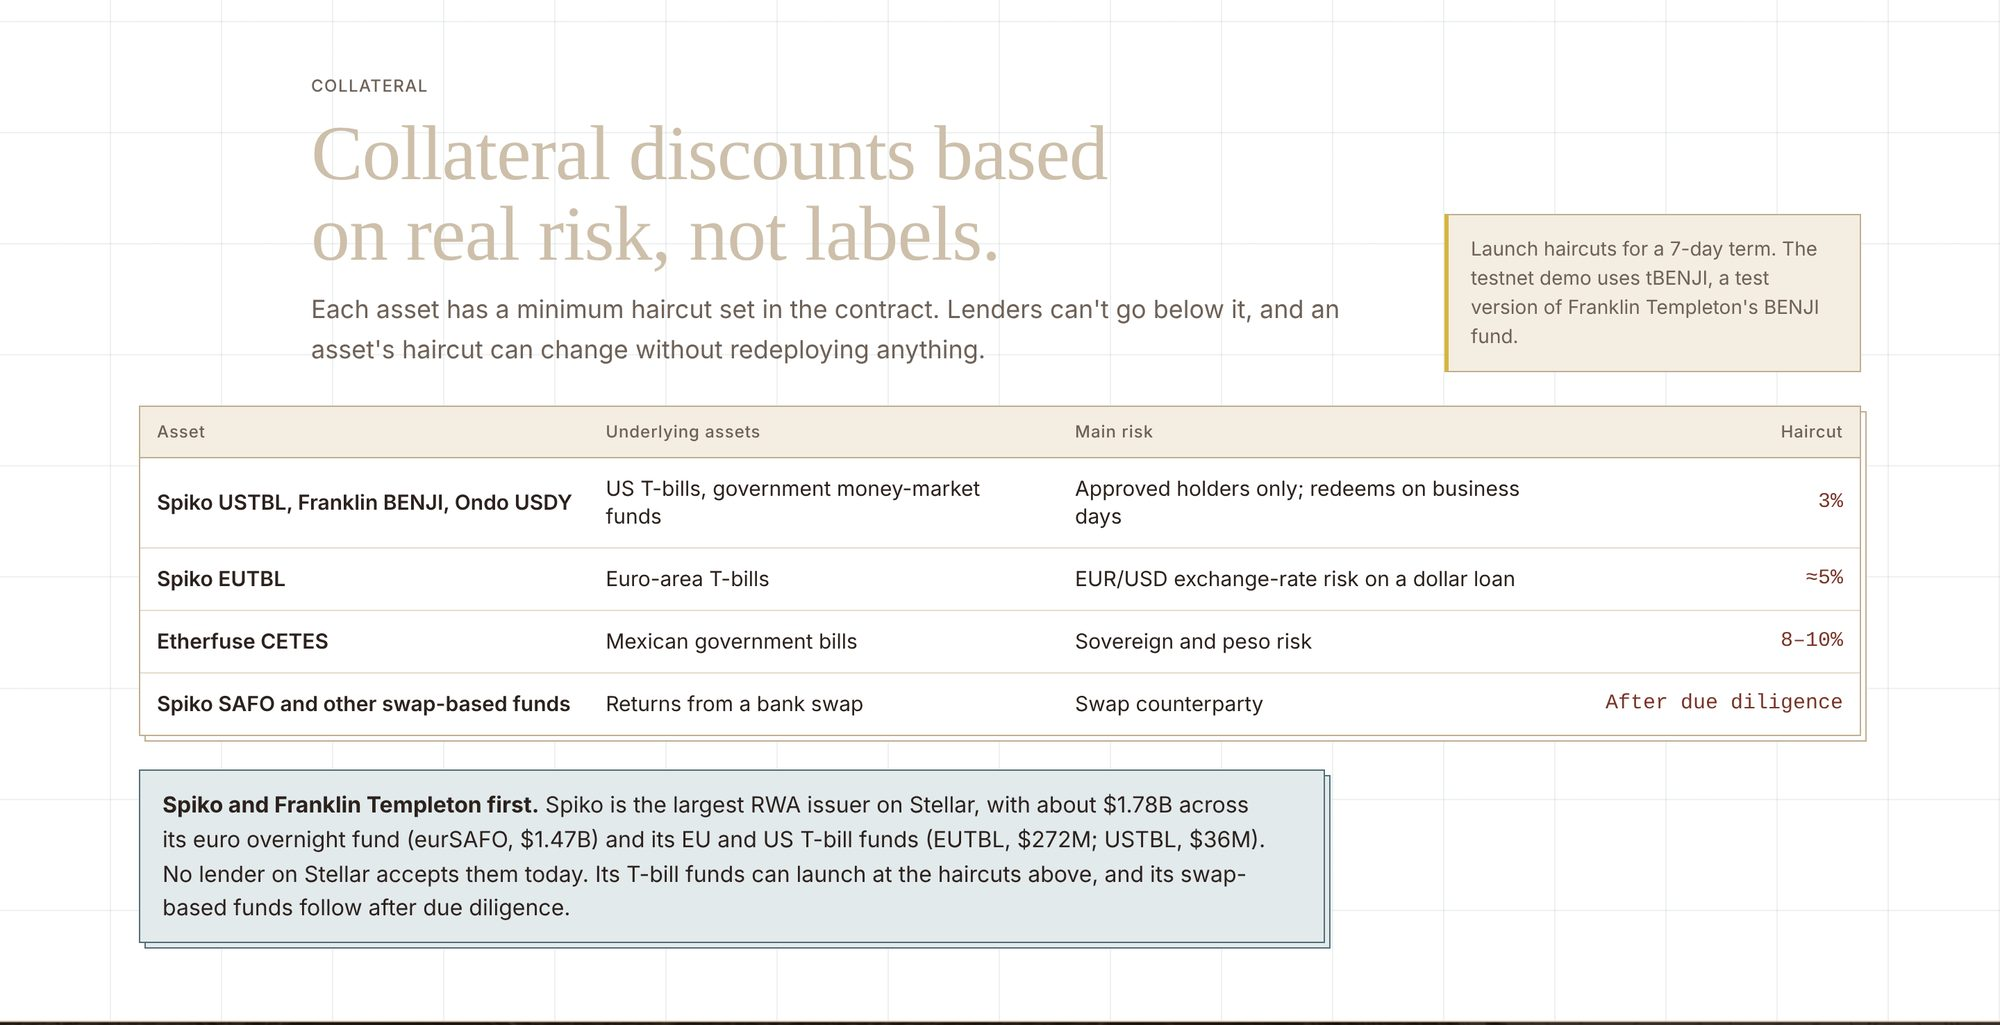
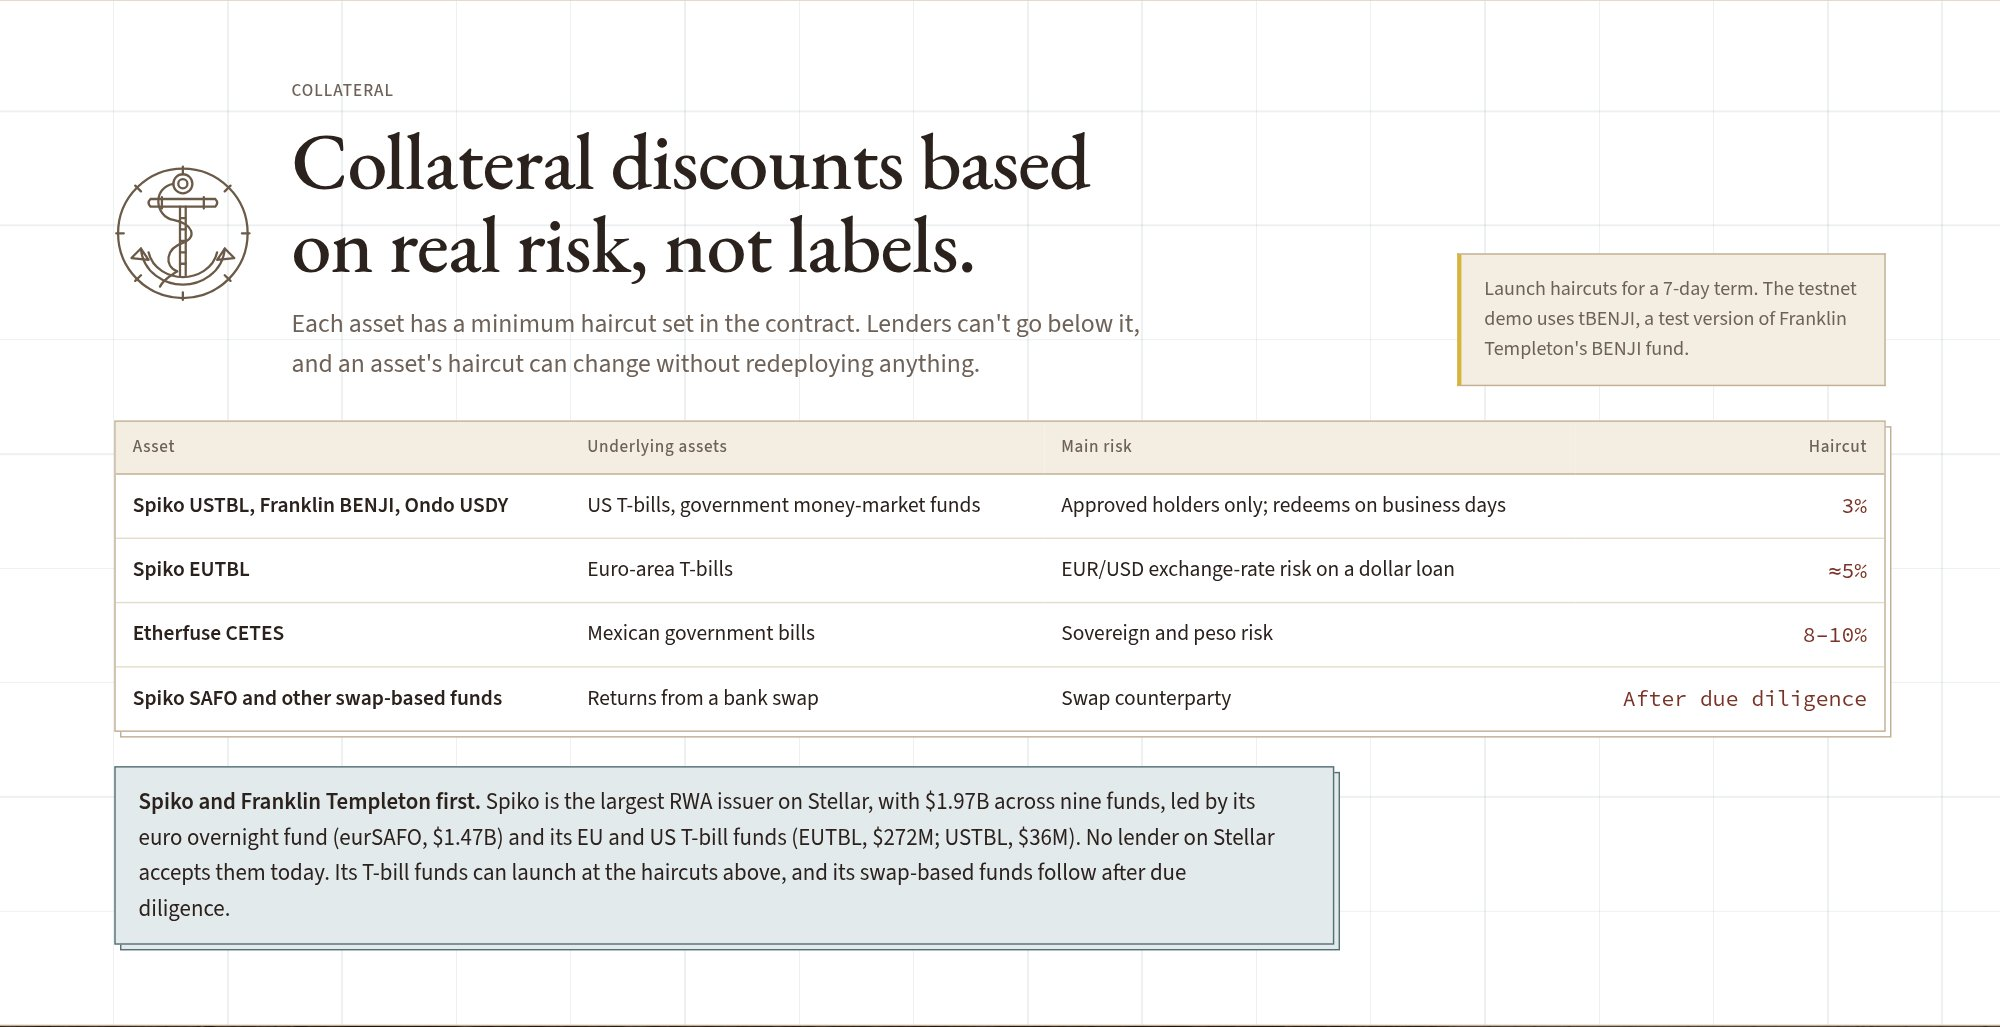
Docs, landing: use docs/numbers.md figures (DefiLlama Active AUM, 25 Oct 2026) everywhere
README, INTRO, DEVS and site/index.html still showed ≈$2.4B, ≈$1.78B and
$475M. Now $3.03B Stellar RWA Active AUM, $133K DeFi Active TVL, Spiko $1.97B
across 9 funds, BENJI $434.7M, dated, with links to docs/numbers.md instead
of more copied figures. INTRO's "$4B vs $2M" demo line becomes $3.03B vs
$133K. mechanics.md O26 marked resolved by numbers.md. landing-collateral.jpg
re-shot from the edited page. TASKS.md status-log history left as is.

site/index.html is hand-edited: the design canvas it is exported from is
outside the repo and needs the same edits before the next re-export.

diff --git a/site/index.html b/site/index.html
@@ -374,9 +374,9 @@ sup a{text-decoration:none;font-size:11px;font-family:var(--font-mono)}
 <p class="lede" style="text-align: center;">Stellar already holds some of the safest assets in finance: tokenized Treasury and money-market funds. Holders who need cash today must redeem and wait. Almost none of these assets can be borrowed against.</p>
 </div>
 <div class="wrap" style="padding-bottom: 24px; display: grid; grid-template-columns: repeat(auto-fit, minmax(min(100%, 280px), 1fr)); gap: 24px;">
-<div class="cv-layer lift" style="background: var(--surface); border: 1px solid var(--line-strong); padding: 24px; display: flex; flex-direction: column; gap: 8px;"><span style="font-family: var(--font-mono); font-size: 48px; font-weight: 500; line-height: 1;">≈$2.4B</span><span style="font-size: 15px; color: var(--ink-muted);">in tokenized real-world assets on Stellar<sup><a href="#src-1">1</a></sup></span></div>
-<div class="cv-layer lift" style="background: var(--surface); border: 1px solid var(--line-strong); padding: 24px; display: flex; flex-direction: column; gap: 8px;"><span style="font-family: var(--font-mono); font-size: 48px; font-weight: 500; line-height: 1;">≈$1.78B</span><span style="font-size: 15px; color: var(--ink-muted);">in Spiko's Treasury and money-market funds, the largest RWA issuer on Stellar. No lender here accepts them.<sup><a href="#src-3">3</a></sup></span></div>
-<div class="cv-layer lift" style="background: var(--surface); border: 1px solid var(--line-strong); padding: 24px; display: flex; flex-direction: column; gap: 8px;"><span style="font-family: var(--font-mono); font-size: 48px; font-weight: 500; line-height: 1; color: var(--brand);">0</span><span style="font-size: 15px; color: var(--ink-muted);">lending contracts hold any of the $475M in Franklin Templeton's BENJI fund on Stellar<sup><a href="#src-2">2</a></sup></span></div>
+<div class="cv-layer lift" style="background: var(--surface); border: 1px solid var(--line-strong); padding: 24px; display: flex; flex-direction: column; gap: 8px;"><span style="font-family: var(--font-mono); font-size: 48px; font-weight: 500; line-height: 1;">$3.03B</span><span style="font-size: 15px; color: var(--ink-muted);">in tokenized real-world assets on Stellar. Only $133K of it works in DeFi.<sup><a href="#src-1">1</a></sup></span></div>
+<div class="cv-layer lift" style="background: var(--surface); border: 1px solid var(--line-strong); padding: 24px; display: flex; flex-direction: column; gap: 8px;"><span style="font-family: var(--font-mono); font-size: 48px; font-weight: 500; line-height: 1;">$1.97B</span><span style="font-size: 15px; color: var(--ink-muted);">in Spiko's nine Treasury and money-market funds, the largest RWA issuer on Stellar. No lender here accepts them.<sup><a href="#src-3">3</a></sup></span></div>
+<div class="cv-layer lift" style="background: var(--surface); border: 1px solid var(--line-strong); padding: 24px; display: flex; flex-direction: column; gap: 8px;"><span style="font-family: var(--font-mono); font-size: 48px; font-weight: 500; line-height: 1; color: var(--brand);">0</span><span style="font-size: 15px; color: var(--ink-muted);">lending contracts hold any of the $434.7M in Franklin Templeton's BENJI fund on Stellar<sup><a href="#src-2">2</a></sup></span></div>
 </div>
 <p class="wrap" style="margin: 0 auto; padding-top: 8px; padding-bottom: 16px; font-size: 12px; color: var(--ink-subtle); text-align: center;">As of 25 Oct 2026. Sources are listed at the foot of the page.</p>
 <img class="moored" src="assets/2bdf2e53d894078bc39bfbcbce2a1450.jpg" alt="Woodblock-style waves with a fleet of caravels moored at anchor, sails furled">
@@ -587,7 +587,7 @@ sup a{text-decoration:none;font-size:11px;font-family:var(--font-mono)}
 <tr><td data-label="Asset" style="font-weight: 600;">Spiko SAFO and other swap-based funds</td><td data-label="Underlying" style="white-space: normal;">Returns from a bank swap</td><td data-label="Main risk" style="white-space: normal;">Swap counterparty</td><td data-label="Haircut" class="r cv-num" style="color: var(--brand);">After due diligence</td></tr>
 </tbody></table></div>
 <div class="cv-alert cv-alert--info" style="max-width: 820px;">
-<div><b>Spiko and Franklin Templeton first.</b> Spiko is the largest RWA issuer on Stellar, with about $1.78B across its euro overnight fund (eurSAFO, $1.47B) and its EU and US T-bill funds (EUTBL, $272M; USTBL, $36M). No lender on Stellar accepts them today. Its T-bill funds can launch at the haircuts above, and its swap-based funds follow after due diligence.</div>
+<div><b>Spiko and Franklin Templeton first.</b> Spiko is the largest RWA issuer on Stellar, with $1.97B across nine funds, led by its euro overnight fund (eurSAFO, $1.47B) and its EU and US T-bill funds (EUTBL, $272M; USTBL, $36M). No lender on Stellar accepts them today. Its T-bill funds can launch at the haircuts above, and its swap-based funds follow after due diligence.</div>
 </div>
 </div>
 </section>
@@ -668,9 +668,9 @@ sup a{text-decoration:none;font-size:11px;font-family:var(--font-mono)}
 <div style="display: flex; flex-direction: column; gap: 8px;">
 <span class="foot-h" style="margin: 0;">Sources</span>
 <ol style="margin: 0; padding-left: 18px; font-size: 12px; color: #b4a797; display: grid; gap: 4px;">
-<li id="src-1">RWA active market cap on Stellar, 25 Oct 2026: <a href="https://defillama.com/rwa/chain/stellar">DefiLlama RWA</a></li>
+<li id="src-1">RWA Active AUM and DeFi Active TVL on Stellar, 25 Oct 2026: <a href="https://defillama.com/rwa/chain/stellar">DefiLlama RWA</a></li>
 <li id="src-2">BENJI on Stellar, 25 Oct 2026: <a href="https://defillama.com/rwa/asset/BENJI">DefiLlama RWA</a>; contract holders: <a href="https://horizon.stellar.org/assets?asset_code=BENJI&amp;asset_issuer=GBHNGLLIE3KWGKCHIKMHJ5HVZHYIK7WTBE4QF5PLAKL4CJGSEU7HZIW5">Stellar Horizon</a></li>
-<li id="src-3">Spiko on Stellar, 25 Oct 2026: DefiLlama RWA <a href="https://defillama.com/rwa/asset/eurSAFO">eurSAFO</a>, <a href="https://defillama.com/rwa/asset/EUTBL">EUTBL</a>, <a href="https://defillama.com/rwa/asset/USTBL">USTBL</a>; lender markets: <a href="https://whalehub.io/blog/spiko-stellar">WhaleHub</a></li>
+<li id="src-3">Spiko on Stellar, 25 Oct 2026: DefiLlama RWA <a href="https://defillama.com/rwa/chain/stellar">issuer total</a>, <a href="https://defillama.com/rwa/asset/eurSAFO">eurSAFO</a>, <a href="https://defillama.com/rwa/asset/EUTBL">EUTBL</a>, <a href="https://defillama.com/rwa/asset/USTBL">USTBL</a>; lender markets: <a href="https://whalehub.io/blog/spiko-stellar">WhaleHub</a></li>
 <li id="src-4">USDXX 7-day SEC yield, 23 Oct 2026: <a href="https://www.blackrock.com/cash/en-us/products/329365/circle-reserve-fund">BlackRock, Circle Reserve Fund</a></li>
 <li id="src-5">Blend Fixed pool USDC supply rate, 6 Oct 2026 (DefiLlama): <a href="https://whalehub.io/blog/best-lending-protocols-stellar">WhaleHub, lending protocols on Stellar</a></li>
 </ol>

diff --git a/README.md b/README.md
@@ -18,11 +18,14 @@ Stellar holds billions in tokenized fund shares that no on-chain lender can hold
 
 | Fact | Value | Source |
 |---|---|---|
-| RWAs on Stellar (active market cap, 25 Oct) | **≈$2.4B** | [DefiLlama RWA](https://defillama.com/rwa/chain/stellar) |
-| Spiko on Stellar, the largest issuer (eurSAFO $1.47B, EUTBL $272M, USTBL $36M) | **≈$1.78B** | DefiLlama: [eurSAFO](https://defillama.com/rwa/asset/eurSAFO), [EUTBL](https://defillama.com/rwa/asset/EUTBL), [USTBL](https://defillama.com/rwa/asset/USTBL) |
-| Franklin BENJI on Stellar ($475M, [DefiLlama](https://defillama.com/rwa/asset/BENJI)) held by any smart contract | **0 contracts** | [Horizon](https://horizon.stellar.org/assets?asset_code=BENJI&asset_issuer=GBHNGLLIE3KWGKCHIKMHJ5HVZHYIK7WTBE4QF5PLAKL4CJGSEU7HZIW5) |
+| RWAs on Stellar (DefiLlama Active AUM) | **$3.03B** | [DefiLlama RWA](https://defillama.com/rwa/chain/stellar) |
+| Of which working in DeFi (DefiLlama DeFi Active TVL) | **$133K** | [DefiLlama RWA](https://defillama.com/rwa/chain/stellar) |
+| Spiko on Stellar, the largest issuer (9 funds) | **$1.97B** | [DefiLlama RWA](https://defillama.com/rwa/chain/stellar) |
+| Franklin BENJI on Stellar ($434.7M, [DefiLlama](https://defillama.com/rwa/asset/BENJI)) held by any smart contract | **0 contracts** | [Horizon](https://horizon.stellar.org/assets?asset_code=BENJI&asset_issuer=GBHNGLLIE3KWGKCHIKMHJ5HVZHYIK7WTBE4QF5PLAKL4CJGSEU7HZIW5) |
 | Spiko markets on Stellar lenders | XOXNO lists six, all disabled | [WhaleHub](https://whalehub.io/blog/spiko-stellar) |
 | Largest Stellar lender (Blend V2) | $132M, mostly XLM collateral, no allowlist hook | [gap analysis](docs/research/rwa-collateral-gap-analysis.md) |
+
+DefiLlama figures as of 25 Oct 2026. The per-asset breakdown and superseded figures are in [docs/numbers.md](docs/numbers.md).
 
 A holder of tokenized T-bills who needs dollars for a week has two options today: sell the fund shares and lose the yield, or leave Stellar. The assets are some of the safest on the network, and almost none of them can be borrowed against.
 

diff --git a/INTRO.md b/INTRO.md
@@ -10,8 +10,8 @@ Someone holds a token that represents US Treasury bills (a "tokenized fund"). Th
 Banks have done this for decades. It's called a **repo** (sale and repurchase). We're bringing it on-chain on **Stellar**.
 
 ## Why it matters
-- About **$2.4B** of these fund tokens already live on Stellar (DefiLlama, 25 Oct). The biggest issuers are Spiko (≈$1.78B) and Franklin Templeton (BENJI, $475M).
-- Almost none of it can be borrowed against. Lending pools that accept them hold about **$2M**.
+- About **$3.03B** of these fund tokens already live on Stellar (DefiLlama, 25 Oct 2026). Spiko is the biggest issuer; Franklin Templeton's BENJI is the other anchor. Breakdown: [docs/numbers.md](docs/numbers.md).
+- Almost none of it can be borrowed against: only about **$133K** of it is used in DeFi at all (same source).
 - Reason: existing crypto lending sells your deposit the moment its price dips, 24/7. Bond funds only publish a price once a day and markets close on weekends. The models don't fit.
 - Our fix: **fixed-term loans** that only check the price once a day. Like a bank, not like a crypto exchange.
 
@@ -47,7 +47,7 @@ Banks have done this for decades. It's called a **repo** (sale and repurchase). 
 - **Testnet**: Stellar's free practice network. Everything we deploy lives there.
 
 ## What the demo shows (2–3 min video)
-1. The problem in one slide: $4B of bonds vs $2M usable.
+1. The problem in one slide: $3.03B of fund tokens vs $133K working in DeFi (DefiLlama, 25 Oct 2026).
 2. Lender posts offer → borrower takes it → one transaction moves both sides.
 3. Price drops → margin call → borrower tops up.
 4. Day 7 → repay → bonds returned.

diff --git a/DEVS.md b/DEVS.md
@@ -19,7 +19,7 @@ Deadline: submit **Mon 11:30**, feature freeze **Mon 08:00**.
 
 ## Update Sun 16:35: Spiko, compliance, weekends
 
-- **Pitch:** Spiko is the largest RWA issuer on Stellar (≈$1.78B: eurSAFO $1.47B, EUTBL $272M, USTBL $36M; BENJI $475M; DefiLlama, 25 Oct). It sits next to BENJI at the center of the deck and the landing. Deck: 11 slides, [docs/pitch-deck.md](docs/pitch-deck.md); Teo drafts, Den owns the narrative and the final read. All numbers from [docs/numbers.md](docs/numbers.md), dated.
+- **Pitch:** Spiko is the largest RWA issuer on Stellar ($1.97B across 9 funds vs BENJI $434.7M; DefiLlama, 25 Oct 2026; details in [docs/numbers.md](docs/numbers.md)). It sits next to BENJI at the center of the deck and the landing. Deck: 11 slides, [docs/pitch-deck.md](docs/pitch-deck.md); Teo drafts, Den owns the narrative and the final read. All numbers from [docs/numbers.md](docs/numbers.md), dated.
 - **Misha:** per-asset NAV staleness (DECISIONS #25): `AssetConfig.max_nav_age_secs`, 96h prod / 180 s demo, then redeploy (issue #18 covers the redeploy).
 - **Den:** compliance-agnostic test (DECISIONS #24) with a Spiko-style permissioned SEP-41 token that has no `approve`; decide with Misha whether `liquidate` stays blocked on stale NAV.
 - **Bohdan Che:** landing and app copy updated for Spiko, compliance-agnostic and the weekend policy.

diff --git a/docs/mechanics.md b/docs/mechanics.md
@@ -337,7 +337,7 @@ Files disagree or are silent. Each item carries a suggested default. `[v2]` Item
 - **O23. Who may call `repay` and `top_up`.** *Default:* anyone may pay. Collateral and surplus always go to the recorded borrower.
 - **O24. Liquidator whitelist and issuer allowlist can diverge.** *Default:* `add_liquidator` checks `authorized(liquidator)` at add time; the issuer has a veto over the list (F-25).
 - **O25. Events list undefined.** *Default:* the set in §5.3.
-- **O26. Market-size figures disagree.** [INTRO.md:13](../INTRO.md#L13) says $4B; [collateral-research.md:19](collateral-research.md#L19) says $3.75B (rwa.xyz); the team's business notes (outside the repo) say ~$3B. *Default:* $3.75B with the rwa.xyz source.
+- **O26. Market-size figures disagree.** INTRO.md said $4B; [collateral-research.md](collateral-research.md) says $3.75B (rwa.xyz); the team's business notes (outside the repo) say ~$3B. **Resolved 25 Oct:** [numbers.md](numbers.md) owns market figures: $3.03B DefiLlama Active AUM, 25 Oct 2026; quote $3.75B only with "rwa.xyz" attached.
 
 ## 10. DECISIONS coverage
 
